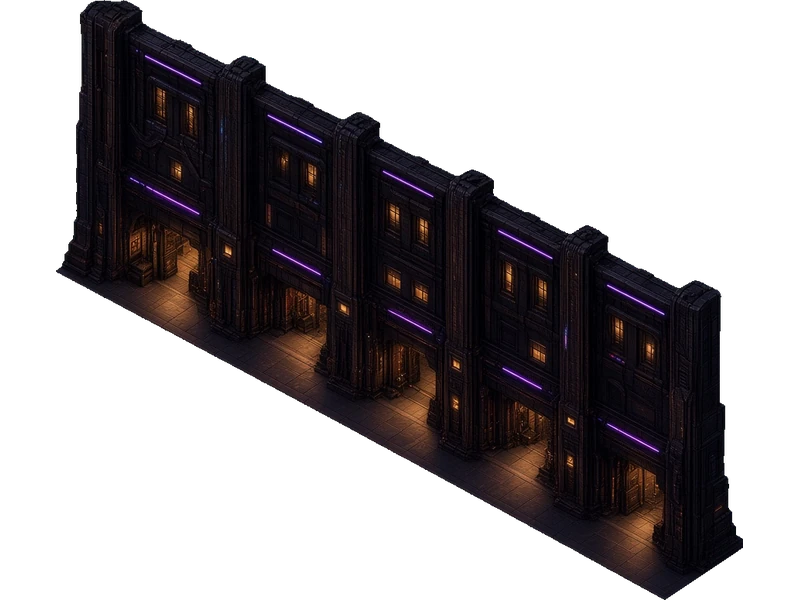
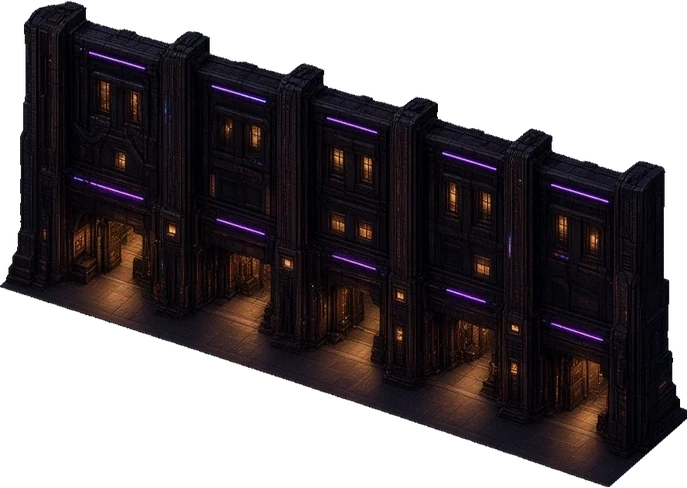
Pulse Plaza, retouches : façades A et B à la pente 0,33, écran est e2 (4 m, en hauteur sur la façade), murets x et z

diff --git a/docs/villes/steel/quartiers/pulse_plaza/PILOTE.md b/docs/villes/steel/quartiers/pulse_plaza/PILOTE.md
@@ -73,3 +73,11 @@ Planche de contrôle (pas une capture du jeu) : `/workspace/nml-shots/pulse_mobi
 - Est : `pp_mur_bas_o` z 20,5 à 36,5 (x 48 à 48,5) ; écran `pp_ecran_haut_e1` à x 45,4 à 46, z 16 à 24 ; jonction Strip z 12 à 14 libre ; garde-corps bas z 0 à 6 et 14 à 20,5.
 - Pentes des faces x, mesurées sur l'alpha de la base : théorie de la caméra 0,331 ; `pp_facade_c` et `pp_mur_bas` 0,330 (collent au sol) ; `pp_facade_a` 0,539 et `pp_facade_b` 0,510 décollent (environ 2,7 m d'écran sur les 16 m de `pp_facade_a`, 1,2 m sur les 8 m de `pp_facade_b`) : elles ne sont plus posées. Faces z : 0,69 à 0,70 pour 0,70 attendu.
 - À reprendre par Ocre : les murs « bas » de 4 m restent hauts sur les bords sud et est, côté caméra (ils cachent une bande d'environ 7 m derrière eux) ; une version à 1,2 m serait plus juste. L'écran `pp_ecran_haut_e1` (8,9 m) paraît grand au premier plan ; n1 et n2, au fond, passent bien. Si les façades hautes du fond paraissent encore intrusives, une version à 4 m est possible.
+
+## Retouches après pose (lot creation/pulse-retouches)
+Verdict de Rivet sur capture : la pente 0,33 des faces x est la bonne.
+- `pp_facade_a` recisaillée de 0,54 à 0,33 : 687 x 488, ancre [607, 486].
+- `pp_facade_b` recisaillée de 0,51 à 0,33 : 359 x 282, ancre [297, 280].
+- `pp_ecran_haut_e2` : même design que e1, face z pente 0,70, 4 m de z, 138 x 394, ancre [0, 393]. Il se pose **en hauteur sur la façade est**, jamais au sol au milieu de la place (bas des supports à 4 m, `elevation_m`). L'ancre est le pied de la façade porteuse sous le bord sud de l'écran, par exemple (46 ; 24). Zone d'écran vide, `ecran_rect` [13, 17, 125, 143], `ecran_coins` [[13, 95], [125, 17], [125, 64], [13, 143]]. e1 est conservé.
+- `pp_muret` (face x, 8 m, 1,2 m) : 400 x 200, ancre [398, 199]. `pp_muret_o` (face z, 8 m) : 275 x 260, ancre [0, 259]. Même logique que pp_mur_bas : ancre au coin, raccord bord à bord, pièce suivante ancrée 8 m plus loin.
+Planche de contrôle : `/workspace/nml-shots/pulse_retouches.png`.
